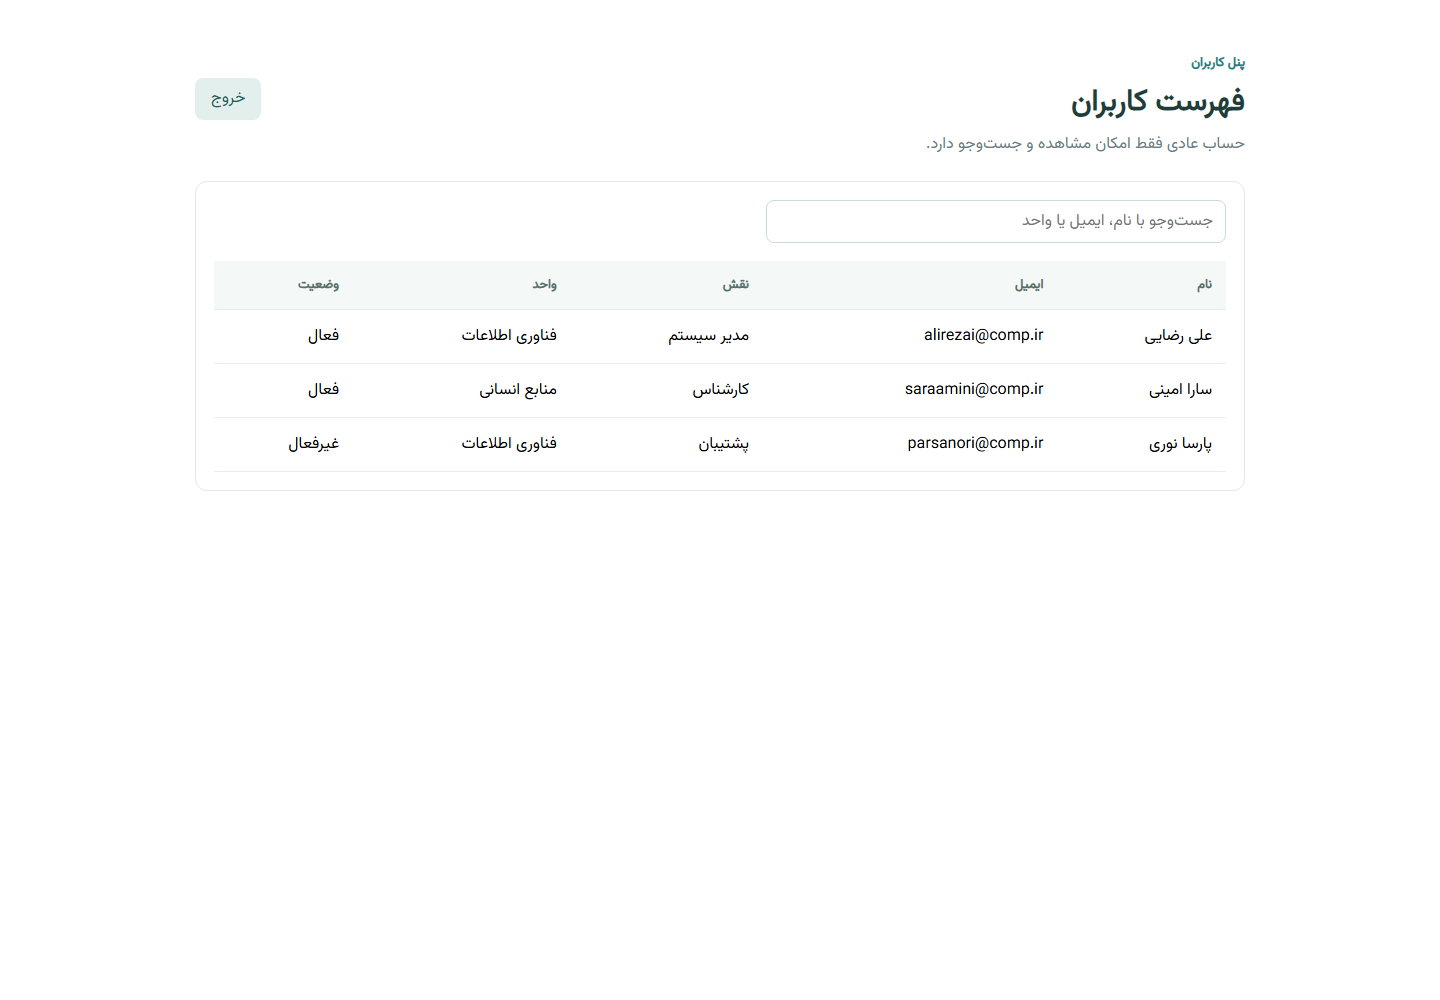
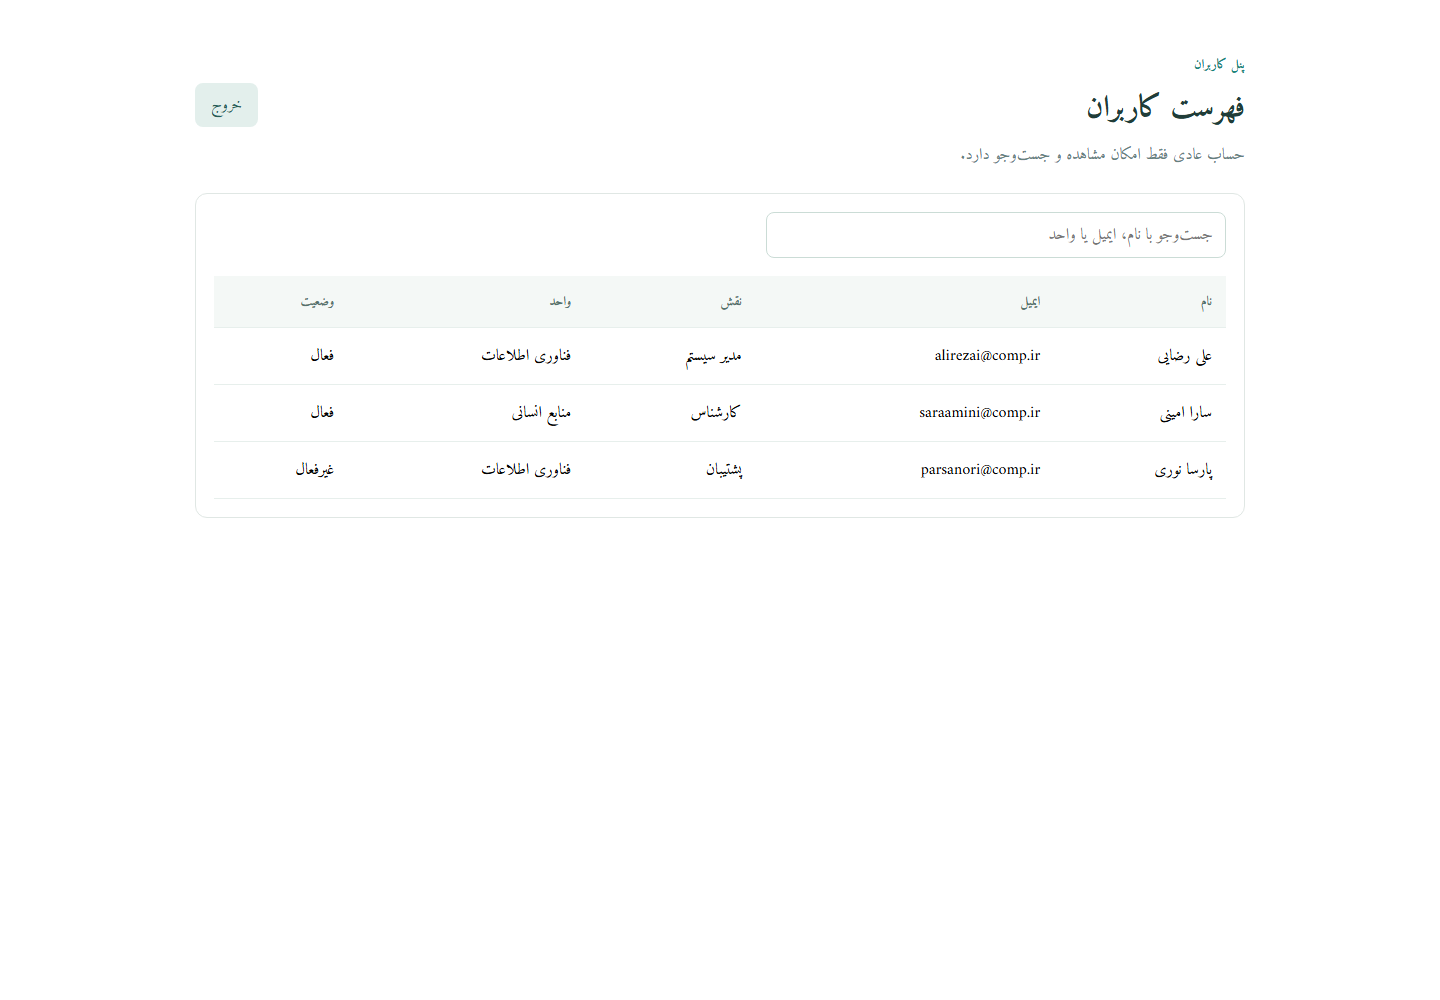
Use a Persian serif font in the interface

diff --git a/src/styles.css b/src/styles.css
@@ -1,8 +1,9 @@
-@import '@fontsource/vazirmatn/400.css';
+@import '@fontsource/amiri/400.css';
+@import '@fontsource/amiri/700.css';
 
 html,
 body {
   min-height: 100%;
   margin: 0;
-  font-family: "Vazirmatn", "Segoe UI", Tahoma, sans-serif;
+  font-family: "Amiri", "Times New Roman", serif;
 }

diff --git a/src/app/app.css b/src/app/app.css
@@ -3,7 +3,7 @@
   min-height: 100vh;
   color: #173b3b;
   background: #f2f7f5;
-  font-family: "Vazirmatn", "Segoe UI", Tahoma, sans-serif;
+  font-family: "Amiri", "Times New Roman", serif;
 }
 
 * { box-sizing: border-box; }
